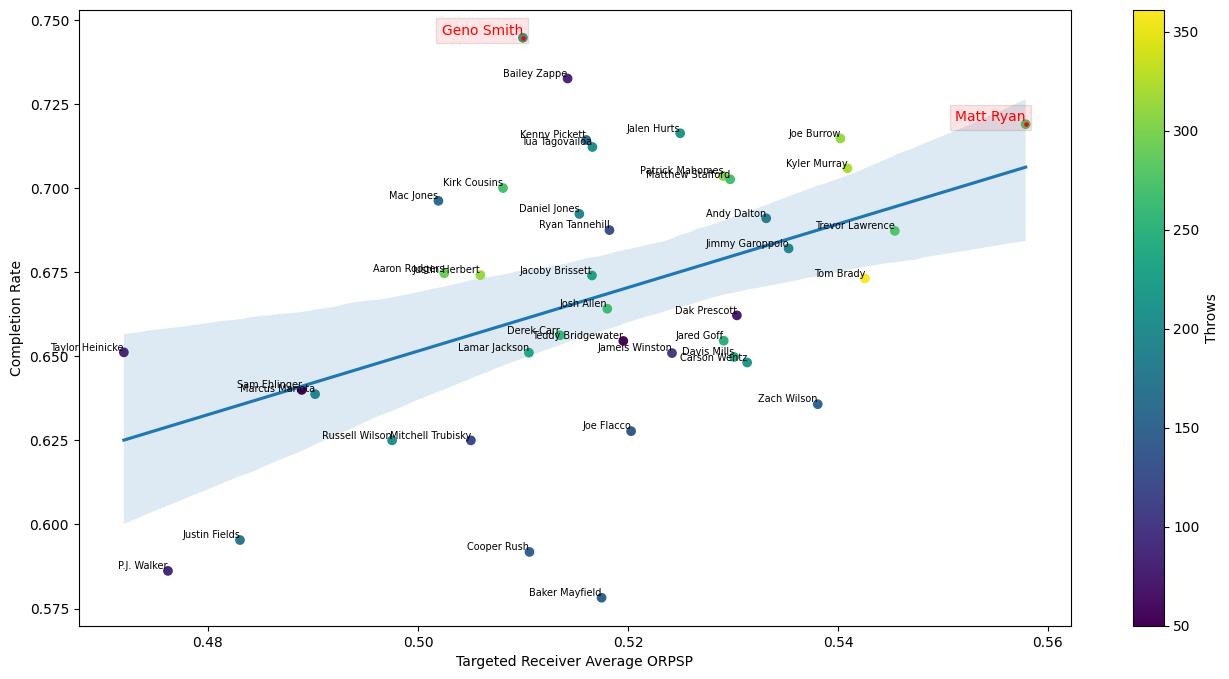
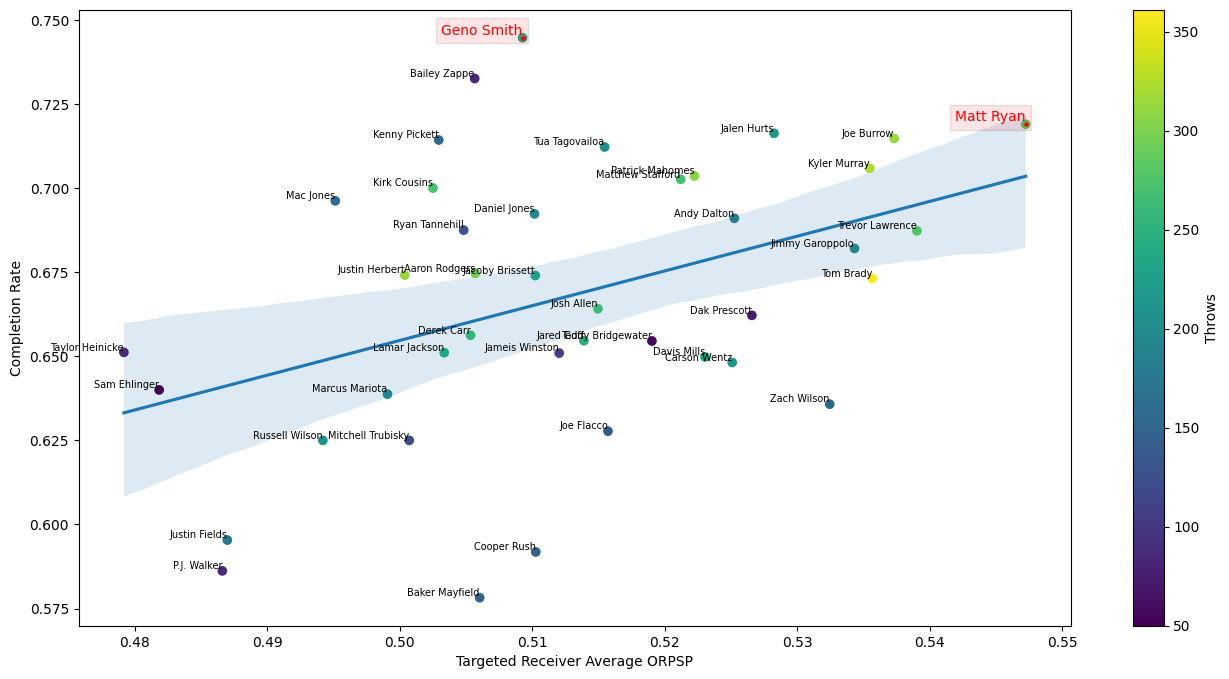
Less overfitting.

diff --git a/src/pre_snap_prediction/modeling/orpsp_classification.py b/src/pre_snap_prediction/modeling/orpsp_classification.py
@@ -100,7 +100,7 @@ def orpsp_train_test_split(
     return x_train, x_test, y_train, y_test
 
 
-def train_orpsp_classification(x_train: pl.DataFrame, y_train: pl.DataFrame, max_depth: int = 6) -> CatBoostClassifier:
+def train_orpsp_classification(x_train: pl.DataFrame, y_train: pl.DataFrame, max_depth: int = 5) -> CatBoostClassifier:
     """Trains a CatBoost classification model to predict ORPSP.
 
     Parameters

diff --git a/README.md b/README.md
@@ -74,7 +74,7 @@ With the ORPSP metric computed for all routes run by the receivers, it is possib
     Figure 7. Receivers performance: catch rate VS targeted average ORPSP
 </p>
 
-There is a strong correlation between catch rate and targeted average ORPSP, with a Pearson coefficient of 0.57. This confirms that the lower the receiver's average probability of getting open, the lower their catch rate will be.
+There is a strong correlation between catch rate and targeted average ORPSP, with a Pearson coefficient of 0.52. This confirms that the lower the receiver's average probability of getting open, the lower their catch rate will be.
 
 Comparing the two wide receivers, JuJu Smith-Schuster and Amari Cooper, based solely on their catch rate would favor JuJu Smith-Schuster. His catch rate is 0.73, significantly higher than Amari Cooper's 0.57. However, taking the targeted average ORPSP into account reveals an explanation for this difference. Both receivers are performing as expected based on the likelihood of getting open. Amari Cooper runs routes that are less likely to allow him to get open, which leads to a lower catch rate. He ended up ranked 15th in the PFF 2022 wide receiver regular season rankings, which noted: "Cooper’s performance flew under the radar in 2022".[[2]](#2)
 
@@ -87,7 +87,7 @@ It is also possible to contextualize quarterbacks' performances by comparing the
     Figure 8. Quarterbacks performance: Completion rate VS targeted receiver average ORPSP
 </p>
 
-The correlation between completion rate and targeted receiver average ORPSP is significant, with a Pearson coefficient of 0.44. A quarterback that takes fewer risks is more likely to have a high completion rate.
+The correlation between completion rate and targeted receiver average ORPSP is significant, with a Pearson coefficient of 0.42. A quarterback that takes fewer risks is more likely to have a high completion rate.
 
 Geno Smith leads all quarterbacks in completion rate at 0.74. Based on his targeted receiver average ORPSP, he is performing well above expectations while taking intermediate risks. By the end of the season, he set several Seahawks franchise records, including the highest single-season completion percentage and the most pass completions in a single season. Geno Smith was named Comeback Player of the Year by the Associated Press and the Pro Football Writers of America (PFWA).[[4]](#4)[[5]](#5) In addition, the PFWA named him as their Most Improved Player.[[6]](#6)
 
